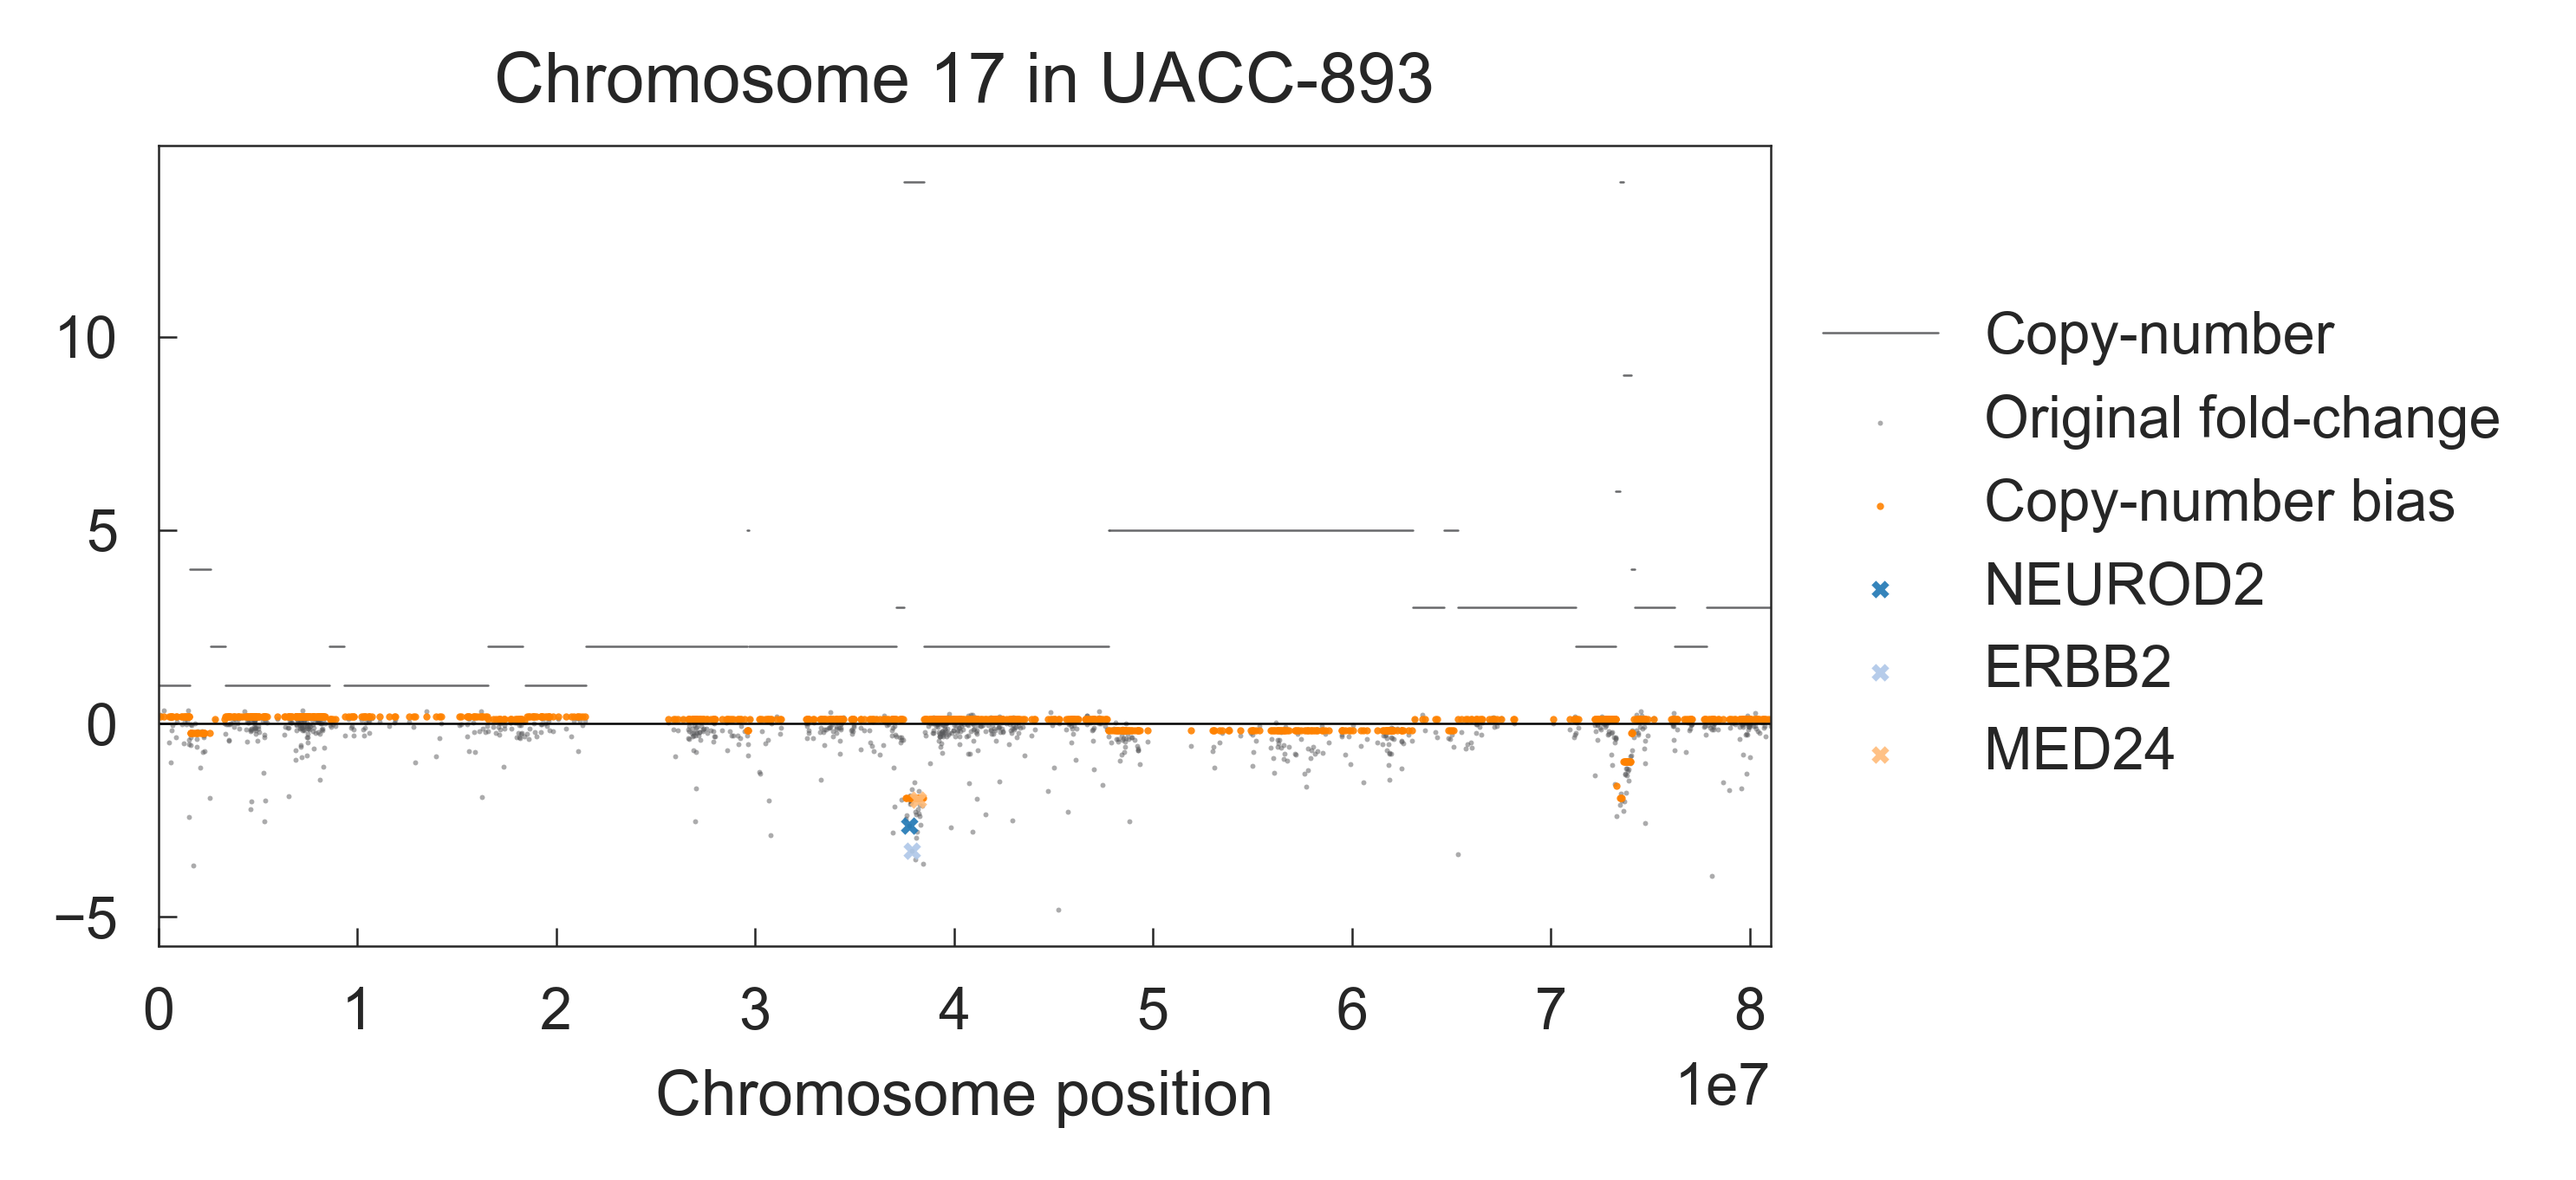
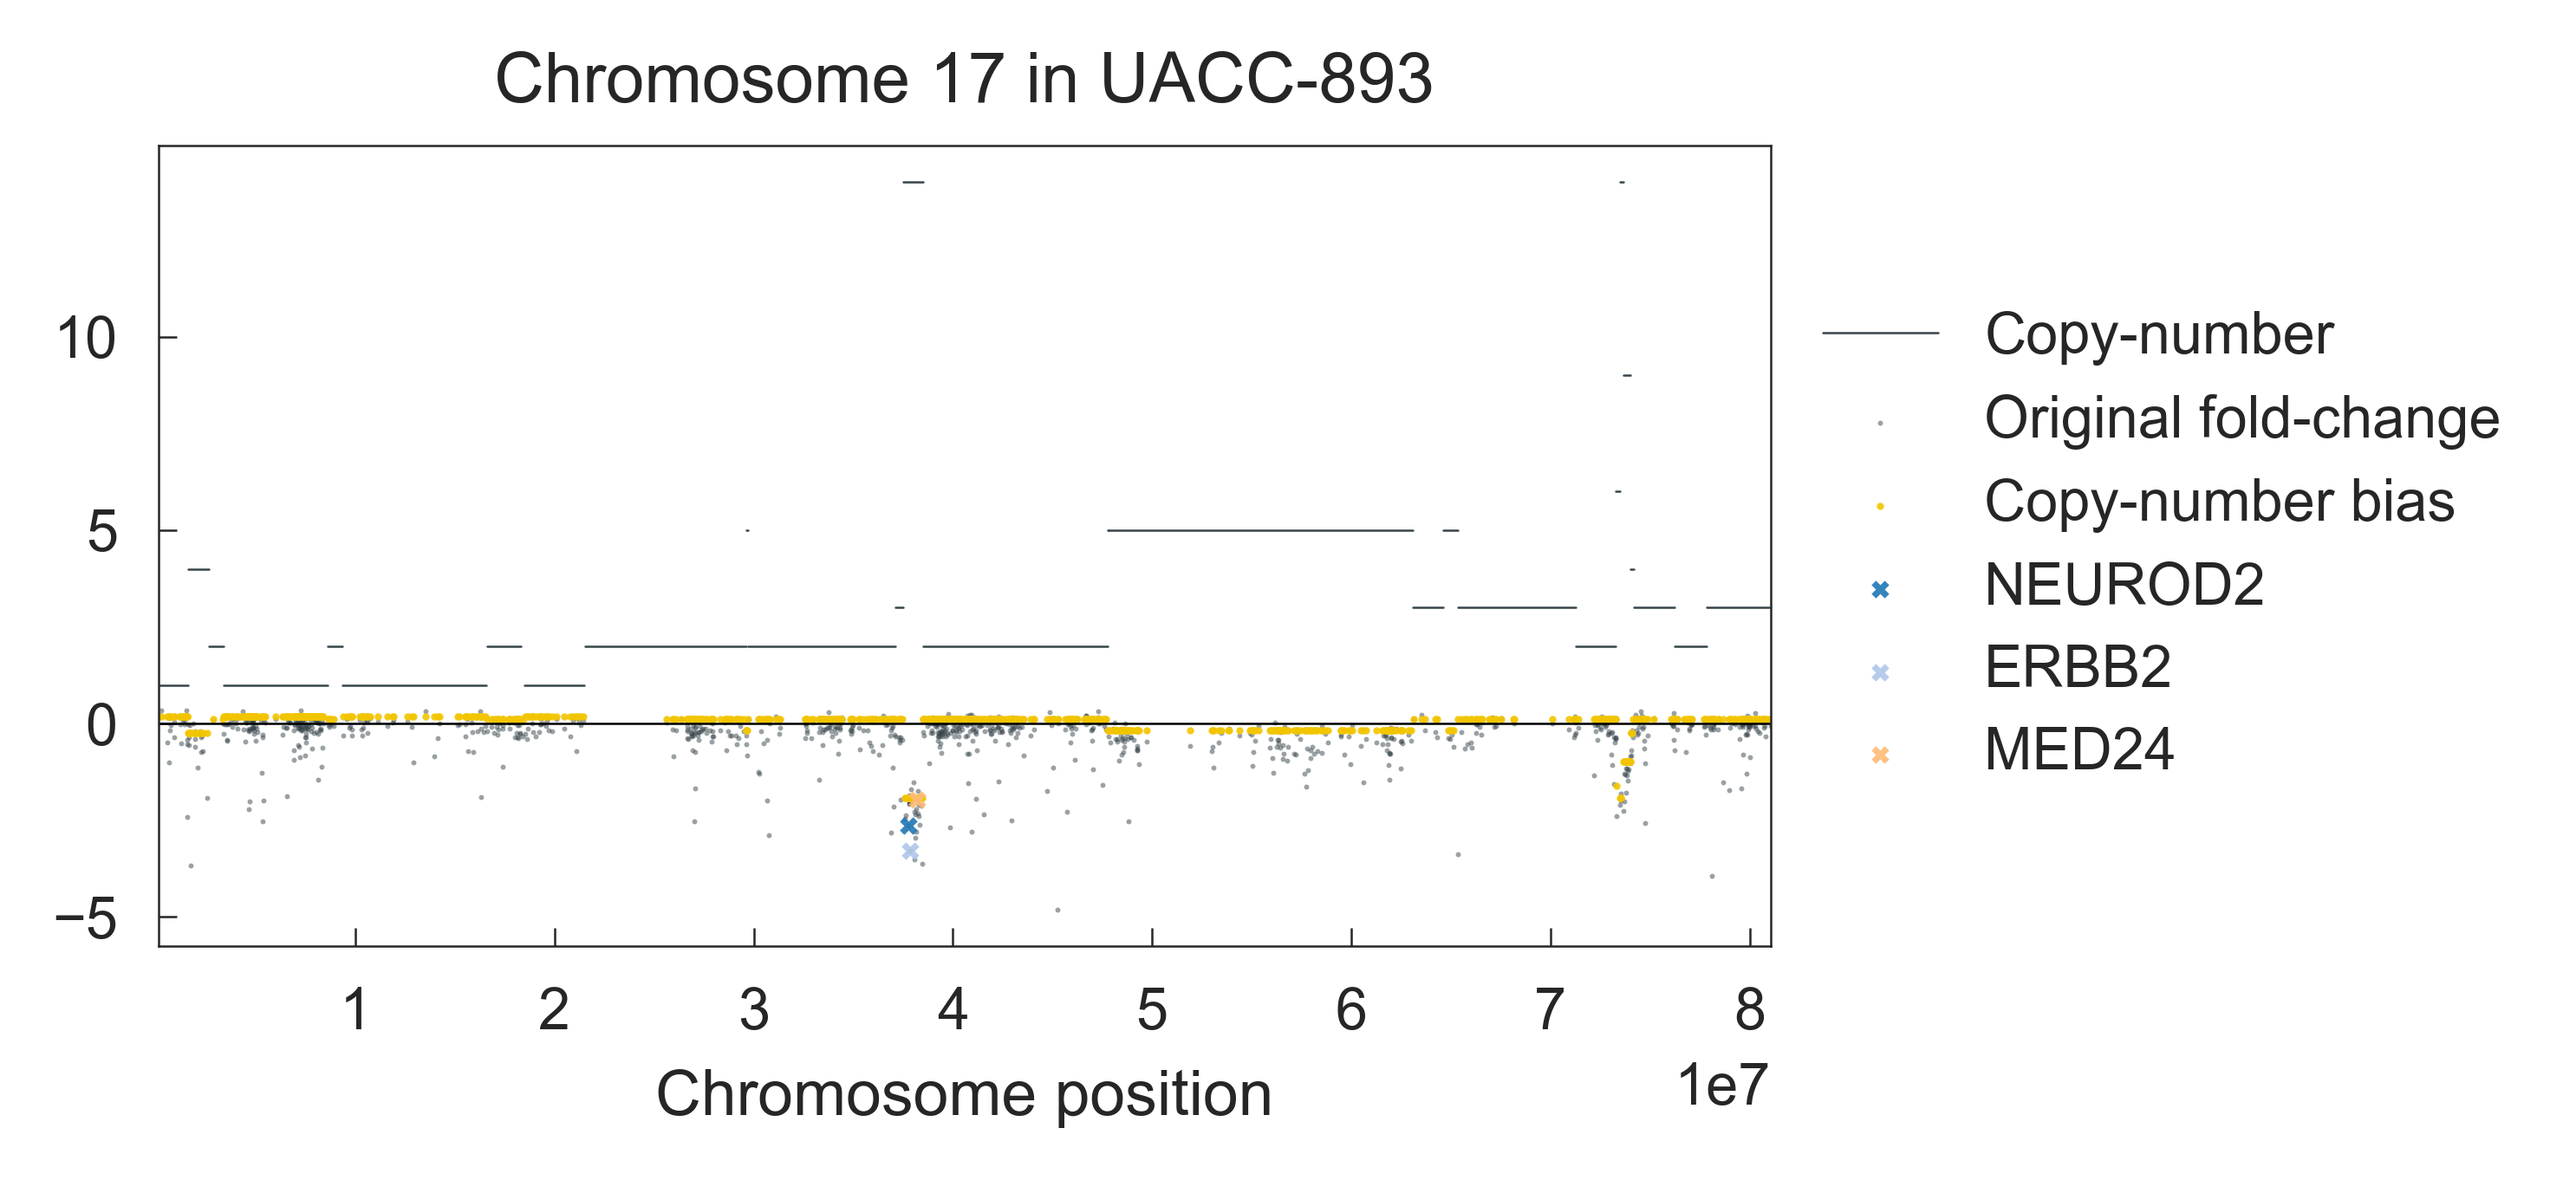
Set chromosome plot to comply with color palette.

diff --git a/crispy/benchmark_plot.py b/crispy/benchmark_plot.py
@@ -6,6 +6,7 @@ import pandas as pd
 import seaborn as sns
 import scipy.stats as st
 import matplotlib.pyplot as plt
+from crispy import bipal_dbgd
 from sklearn.metrics.ranking import auc
 
 
@@ -118,18 +119,18 @@ def plot_chromosome(pos, original, mean, se=None, seg=None, highlight=None, ax=N
         ax = plt.gca()
 
     # Plot original values
-    ax.scatter(pos, original, s=2, marker='.', lw=0, c='#58595B', alpha=.5, label=original.name)
+    ax.scatter(pos, original, s=2, marker='.', lw=0, c=bipal_dbgd[0], alpha=.5, label=original.name)
 
     # Plot corrected values
-    ax.scatter(pos, mean, s=4, marker='.', lw=0, c='#FF8200', alpha=.9, label=mean.name)
+    ax.scatter(pos, mean, s=4, marker='.', lw=0, c=bipal_dbgd[1], alpha=.9, label=mean.name)
 
     if se is not None:
-        ax.fill_between(pos, mean - se, mean + se, c='#FF8200', alpha=0.2)
+        ax.fill_between(pos, mean - se, mean + se, c=bipal_dbgd[1], alpha=0.2)
 
     # Plot segments
     if seg is not None:
         for i, (s, e, c) in enumerate(seg[['startpos', 'endpos', 'totalCN']].values):
-            ax.plot([s, e], [c, c], lw=.3, c='#58595B', alpha=.9, label=seg_label if i == 0 else None)
+            ax.plot([s, e], [c, c], lw=.3, c=bipal_dbgd[0], alpha=1., label=seg_label if i == 0 else None)
 
     # Highlight
     if highlight is not None:
@@ -143,11 +144,11 @@ def plot_chromosome(pos, original, mean, se=None, seg=None, highlight=None, ax=N
     if cytobands is not None:
         for i, (s, e, t) in enumerate(cytobands[['start', 'end', 'band']].values):
             if t == 'acen':
-                ax.axvline(s, lw=.2, ls='-', color='#58595B', alpha=.1)
-                ax.axvline(e, lw=.2, ls='-', color='#58595B', alpha=.1)
+                ax.axvline(s, lw=.2, ls='-', color=bipal_dbgd[0], alpha=.1)
+                ax.axvline(e, lw=.2, ls='-', color=bipal_dbgd[0], alpha=.1)
 
             elif not i % 2:
-                ax.axvspan(s, e, alpha=0.1, facecolor='#58595B')
+                ax.axvspan(s, e, alpha=0.1, facecolor=bipal_dbgd[0])
 
     # Legend
     if legend:
@@ -157,6 +158,6 @@ def plot_chromosome(pos, original, mean, se=None, seg=None, highlight=None, ax=N
     ax.set_xlabel('Chromosome position')
     ax.set_ylabel('Fold-change')
 
-    ax.set_xlim(0, pos.max())
+    ax.set_xlim(pos.min(), pos.max())
 
     return ax

diff --git a/scripts/crispy/collateral_essentiality.py b/scripts/crispy/collateral_essentiality.py
@@ -159,9 +159,12 @@ plot_df = plot_df.query("chr == '%s'" % plot_df.loc[y_feat, 'chr'])
 
 plot_df_seg = cnv_seg.query("cellLine == '%s'" % c).query("chr == '%s'" % plot_df.loc[y_feat, 'chr'])
 
+# plot_df = plot_df.query('(pos > 3.5e7) & (pos < 4e7)')
+
 ax = plot_chromosome(plot_df['pos'], plot_df['fc'].rename('Original fold-change'), plot_df['bias'].rename('Copy-number bias'), seg=plot_df_seg, highlight=[y_feat, 'ERBB2', 'MDM2', 'MED24'])
 plt.title('Chromosome %s in %s' % (plot_df.loc[y_feat, 'chr'], c))
 plt.ylabel('')
+# plt.xlabel('')
 plt.legend(loc='center left', bbox_to_anchor=(1, 0.5))
 plt.gcf().set_size_inches(4, 2)
 plt.savefig('reports/collateral_essentiality_chromosome_plot.png', bbox_inches='tight', dpi=600)
